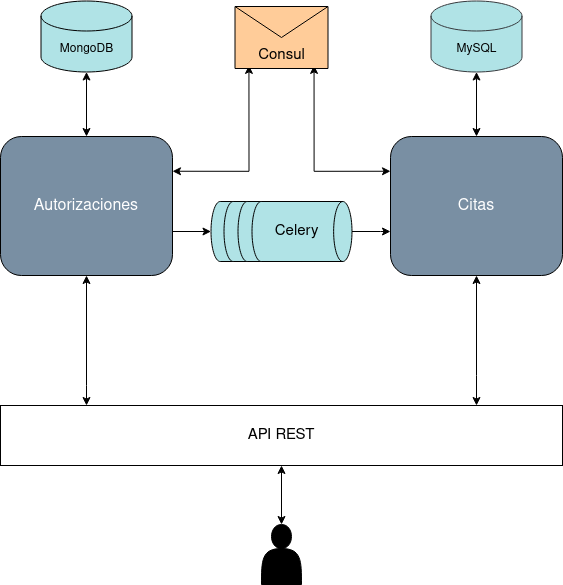
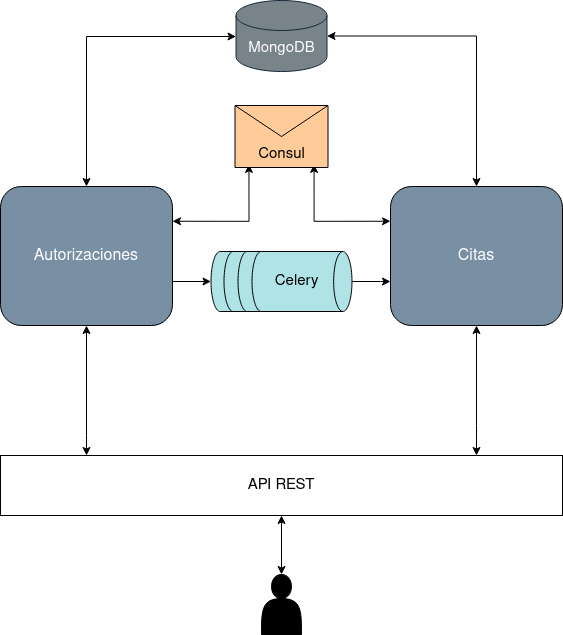
Close #16 Reestructuración arquitectura

diff --git a/README.md b/README.md
@@ -67,10 +67,7 @@ Se empleará como framework [Flask](https://flask.palletsprojects.com/en/1.1.x/)
 
 ##### Almacenamiento
 
-El almacenamiento se compondrá de dos bases de datos diferenciadas, ya que la información a almacenar en dichas bases de datos poseen distintas características. Por lo tanto se usará:
-
-* [MySQL](https://www.mysql.com/) para la parte de citas médicas, ya que se trata de información perfectamente definida y estructurada.
-* [MongoDB](https://www.mongodb.com/es) para la parte de autorizaciones médicas, ya que se desconocen en un principio todos los distintos formatos de autorizaciones y se prioriza la flexibilidad de almacenamiento de dicha información.
+El almacenamiento de datos se realizará con [MongoDB](https://www.mongodb.com/es), ya que requerirá un sistema de estructuras no fijas que permitan una gran escalabilidad. Se utilizará frente a competidores como *CouchDB* o *Redis* ya que permite que cada documento tenga su propio esquema y por su facilidad de integración con *Python* con herramientas como [PyMongo](https://pymongo.readthedocs.io/en/stable/).
 
 ##### Descubrimiento de servicios
 
